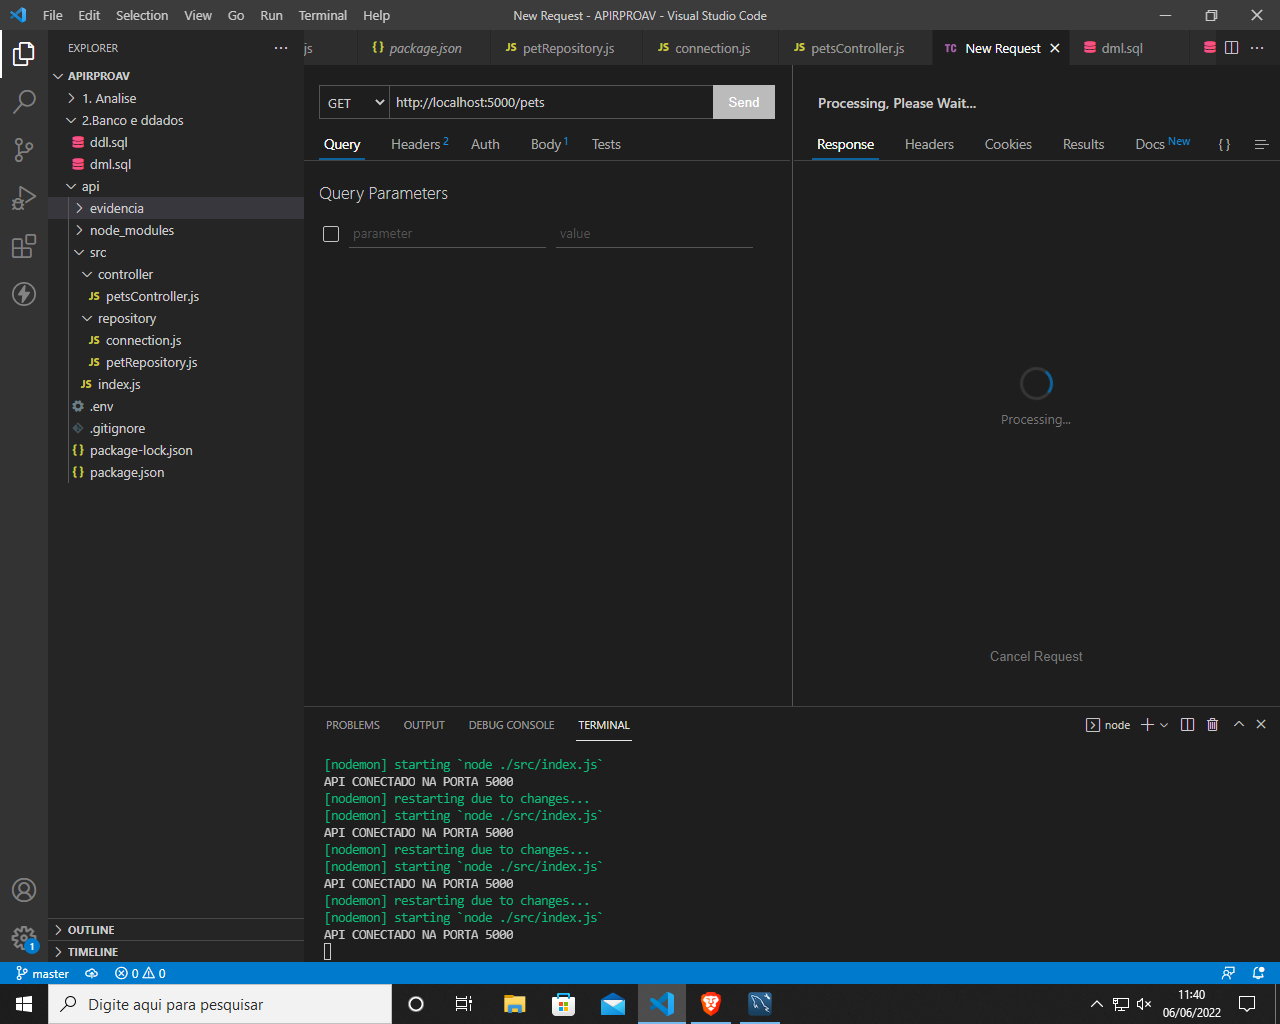
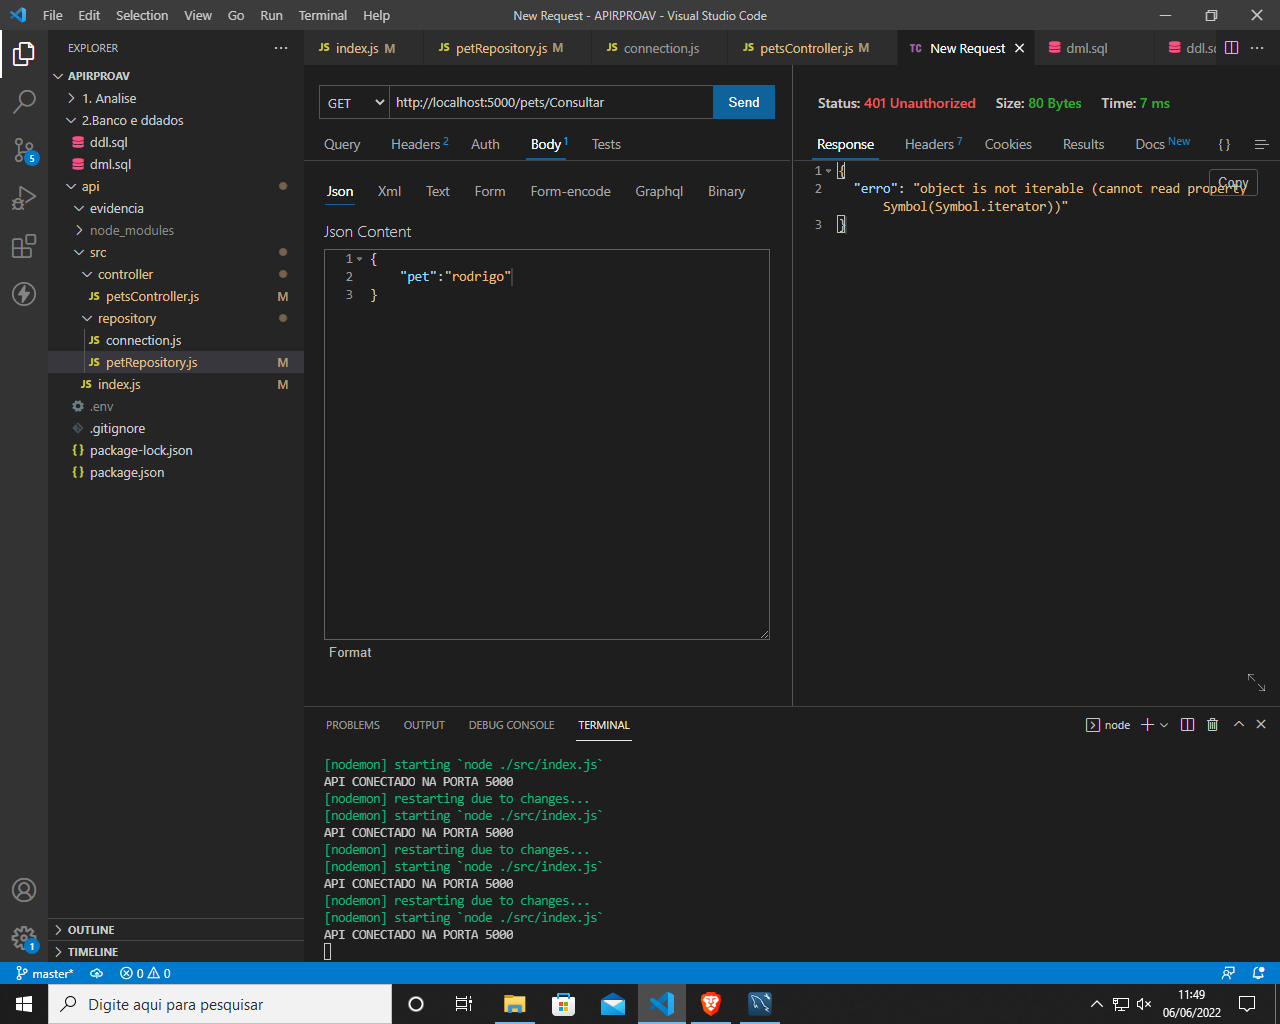
valeu

diff --git a/api/src/controller/petsController.js b/api/src/controller/petsController.js
@@ -3,15 +3,16 @@ import { consultarTabela, inserirTabela } from "../repository/petRepository.js";
 
 const server = Router();
 
-server.get('/pets/Consultar', async (req, resp) => {
+server.get('/pets/consultar', (req, resp) => {
     try{
-        const funcao = await consultarTabela();
+        const funcao = consultarTabela();
 
         resp.send(funcao)
+        
     }catch(err){
 
         resp.status(401).send({
-            erro:err.message
+            erro: err.message
 
         })
     } 
@@ -19,11 +20,11 @@ server.get('/pets/Consultar', async (req, resp) => {
 })
 
 
-server.post('/pets', async (req, resp) => {
+server.post('/pets', (req, resp) => {
     try{
         const { nome } = req.body;
 
-        const funcao = await inserirTabela(nome);
+        const funcao = inserirTabela(nome);
 
         resp.send(funcao)
     }catch(err){

diff --git a/api/src/repository/petRepository.js b/api/src/repository/petRepository.js
@@ -8,19 +8,18 @@ export function consultarTabela(){
     SELECT * FROM TB_PETSS; 
     `
 
-    const [linhas] = con.query(comando)
+    const linhas = con.query(comando)
     return linhas;
 }
 
 
-export async function inserirTabela(pet){
+export function inserirTabela(pet){
     const comando = `
     INSERT INTO TB_PETSS(nm_pet)
     VALUES( ? )
     `
-    const [reposta] = await con.query (comando, [pet.nome])
-    const c = [reposta];
-    return c;
+    const [reposta] = con.query (comando, [pet.nome])
+    return reposta;
 }
 
 export default server

diff --git a/api/src/index.js b/api/src/index.js
@@ -8,7 +8,7 @@ import repository from './repository/petRepository.js'
 
 const server = express();
 server.use(cors());
-server.use(express.json);
+server.use(express.json());
 
 //endpoints
 server.use(controlador);
